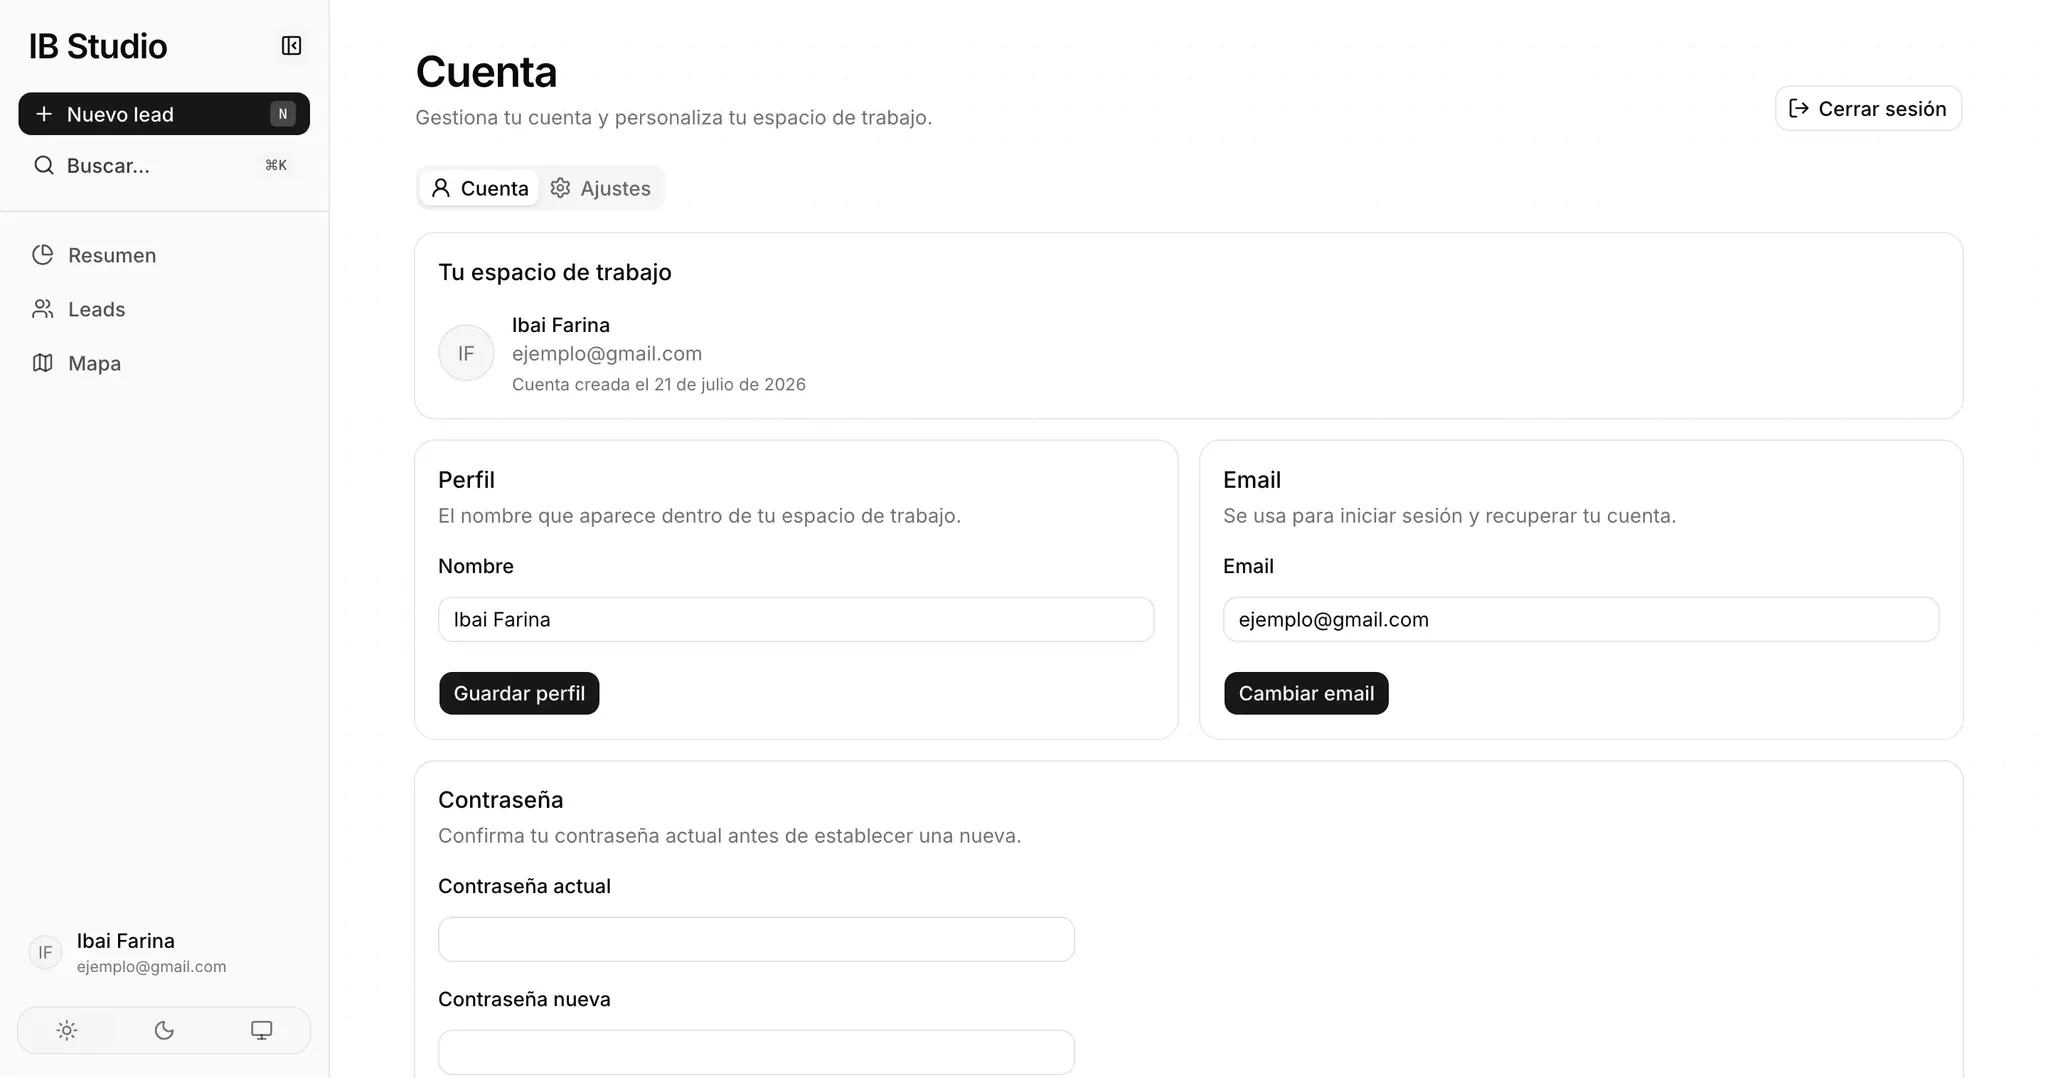
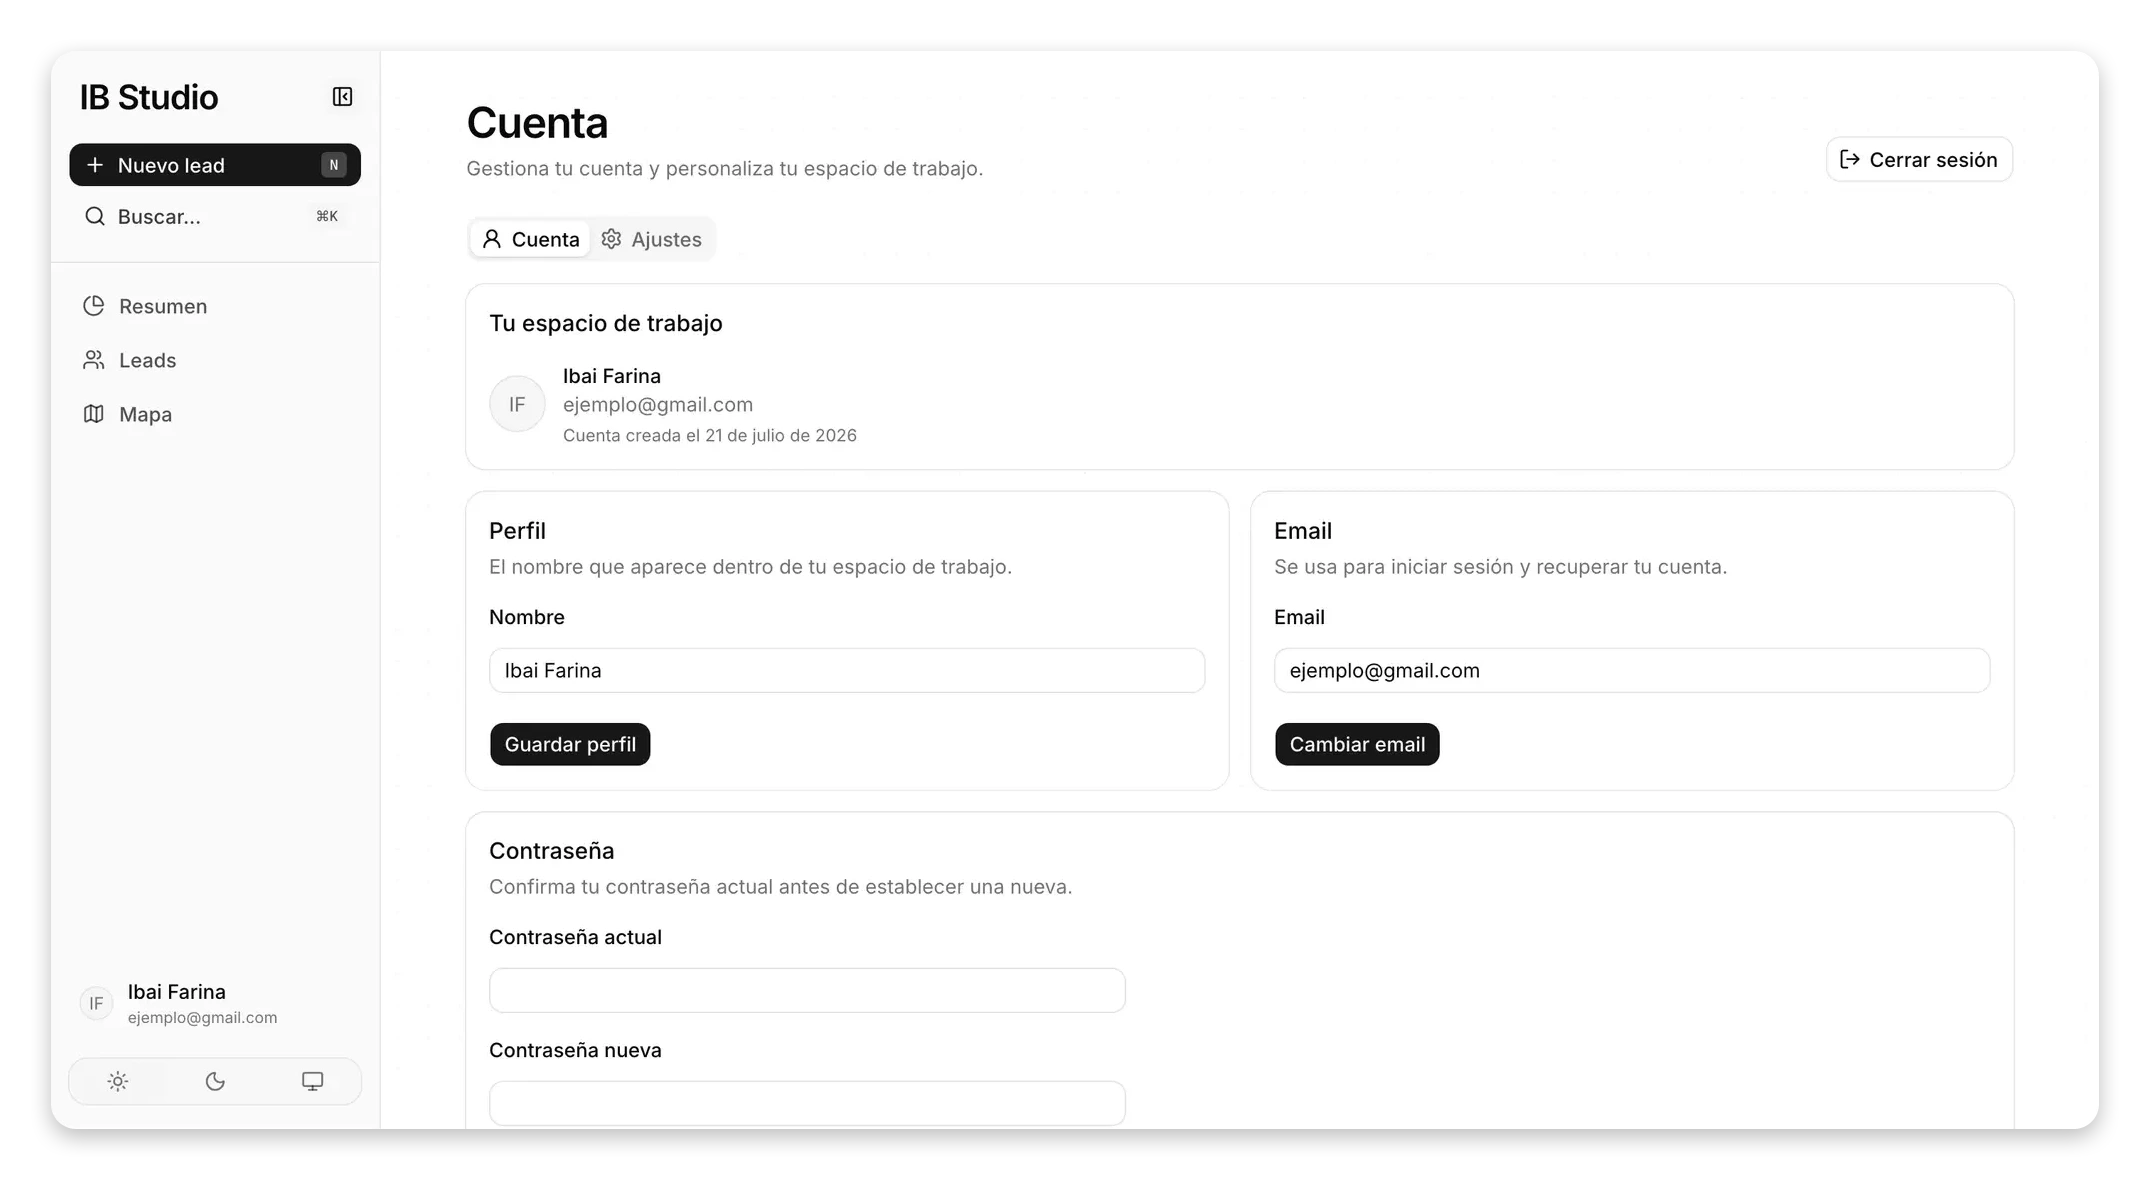
update images

diff --git a/README.md b/README.md
@@ -1,14 +1,10 @@
 # IB Studio CRM
 
-![Dashboard de IB Studio CRM](docs/images/ib-studio-crm/thumbnail.jpg)
+![Dashboard de IB Studio CRM](docs/images/ib-studio-crm/cover.webp)
 
 CRM full-stack para gestionar la prospección, captación y seguimiento de clientes, con dashboards, filtros, un mapa interactivo, autenticación y seguridad de datos por usuario.
 
 [Ver el proyecto en ibaifarina.dev](https://www.ibaifarina.dev/projects/ib-studio-crm?from=%2Fprojects)
-
-| Año | Rol | Stack | Etiquetas |
-| --- | --- | --- | --- |
-| 2026 | Developer & Designer | Next.js · TypeScript · Supabase · PostgreSQL | Full-stack · CRM · SaaS |
 
 ## Sobre el proyecto
 
